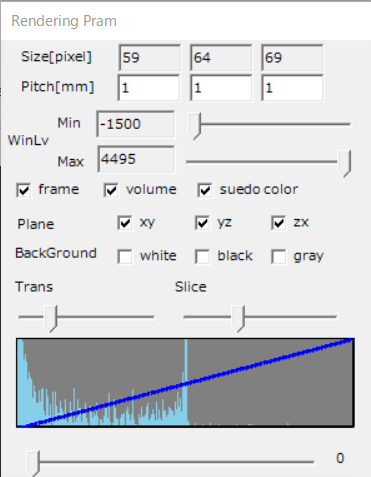
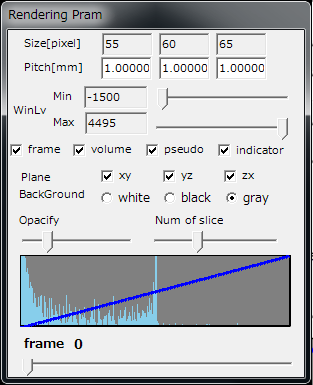
update io and vis
update roi painter 4d

diff --git a/SoftRoiPainter4D/vis/index.html b/SoftRoiPainter4D/vis/index.html
@@ -15,9 +15,6 @@
 
 
 
-
-
-
 <body>
 <div id="MainBody">
 
@@ -26,7 +23,6 @@
 
 <img src="../image/RoiPainter.png" class="ProjImg">
 
-<hr>
 <h2>
 <a href="../index.html">RoiPainter4D</a> &nbsp;&nbsp;
 <a href="../io.html">I/O</a> &nbsp;&nbsp;
@@ -39,8 +35,8 @@
 <hr>
 <h2>Visualization in RoiPainter4D</h2>
 <div class="ProjAbst">
-RoiPainter4Dでは，2つのVisualizationモードが使用可能です．<br>
-起動 : Click "Menu &gt; mode switch &gt; to start visualization mode"<br>
+RoiPainter4Dでは，2つの可視化（Visualization）モードが使用可能です．<br>
+起動方法 : 『Menu &gt; mode switch &gt; to start visualization mode』をクリック<br>
 <br>
 <ol style="line-height:1.5em; padding-left:1em;">
 
@@ -59,9 +55,10 @@ RoiPainter4Dでは，2つのVisualizationモードが使用可能です．<br>
 <hr>
 <h2 id="normal">Visualization Normal</h2>
 <div class="ProjAbst">
-基本のVisualizationモード．入力データをそのまま観察する．
-<br><br>
-<img src="image/vis_normal.png" width="400">
+基本のVisualizationモード．入力データを観察するモード．
+<br>
+<br>
+<img src="image/vis_normal.png" width="700">
 </div>
 
 <div =="" class="StdBlock">
@@ -72,19 +69,20 @@ RoiPainter4Dでは，2つのVisualizationモードが使用可能です．<br>
                 <img src="image/dialog_volinfo.png" width="300">
             </td>
             <td style="padding:1em; line-height: 1.4em;">
-
-<font class="vtmanu">Size</font> 固定<br>
-<font class="vtmanu">Pitch</font> スライスの間隔<br>
-<font class="vtmanu">WinLv</font> <br>  <!-- TODO 書く -->
-<font class="vtmanu">frame</font> 枠の表示<br>
-<font class="vtmanu">volume</font> 3次元モデルの表示<br>
-<font class="vtmanu">suedo</font> 疑似モデルの表示<br>　<!-- TODO 確認 -->
-<font class="vtmanu">Plane xy/yz/zx</font> 各平面のスライスの表示<br>
-<font class="vtmanu">BackGround whilte/black/gray</font> 背景色の変更<br>
-<font class="vtmanu">Trans</font> suedoの透明度設定<br> <!-- TODO 確認 -->
-<font class="vtmanu">Slice</font> <br> <!-- TODO 書く -->
-<font class="vtmanu">transFunc</font> L-dragで操作<br>
-<font class="vtmanu">SliderBar</font> フレーム数を操作<br>
+<font class="vtmanu">Size : </font> 3次元画像の解像度<br>
+<font class="vtmanu">Pitch : </font> ボクセルのサイズ(mm)，修正可能<br>
+<font class="vtmanu">WinLv : </font> 画素値のWindow level (maxとminを指定するとその間が線形補間するようなトーンマッピングが行なわれます)<br>
+<font class="vtmanu">check box - frame : </font> 枠表示の有無を指定<br>
+<font class="vtmanu">check box - volume : </font> volume renderingの有無を指定<br>
+<font class="vtmanu">check box - pseudo : </font> 疑似カラー表示の有無を指定<br>
+<font class="vtmanu">check box - indicator : </font> 画面左下のカメラ方向インジケータ表示の有無を指定<br>
+<font class="vtmanu">Plane xy/yz/zx</font> 平面スライス表示の有無を指定<br>
+<font class="vtmanu">BackGround whilte/black/gray</font> 背景色を指定<br>
+<font class="vtmanu">Opacity : </font> volume renderingの透明度を指定 <br>
+<font class="vtmanu">Num of slice : </font> volume rendering時の平面数を指定（多いほど計算が重いが綺麗） <br>
+<font class="vtmanu">ヒストグラムが表示されたグラフ : </font> このグラフからは伝達関数の指定が可能．横軸が輝度値，縦軸が不透明度に対応しており，L-dragでグラフの形状を修正可能．<br>
+<font class="vtmanu">frame </font> スライダーにより表示するフレーム（時間）を指定．<br>
+<br>
 <br>
 ＊このダイアログはすべてのモード共通です．
             </td>
@@ -97,11 +95,15 @@ RoiPainter4Dでは，2つのVisualizationモードが使用可能です．<br>
 <br>
 
 <hr>
+
 <h2 id="mask">Visualization Mask</h2>
+
 <div class="ProjAbst">
-マスクしたデータを見るためのVisualizationモード．Storeしたデータをまとめて見ることができる．抽出した部位ごとに色を変えるなどして可視化できる．
-<br><br>
-<!-- <img src="./RoiPainter Visualization_files/vis_mask.png" width="400"> -->
+領域分割により作成したマスクデータを観察するためのモード．
+登録したマスクデータを確認したり，各マスクの色・透明度を変えたり，各マスク領域の修正をしたり出来る．
+<br>
+<br>
+<img src="image/vis_mask.png" width="700">
 </div>
 
 <div =="" class="StdBlock">
@@ -113,13 +115,18 @@ RoiPainter4Dでは，2つのVisualizationモードが使用可能です．<br>
             </td>
             <td style="padding:1em; line-height: 1.4em;">
 
-<font class="vtmanu">d1. Mask list</font> 保存したマスクの情報<br>
-<font class="vtmanu">d2. Lock check box</font> ロック設定<br>
-<font class="vtmanu">d3. color button</font> マスクの色変更（Color）<br>
-<font class="vtmanu">d4. alpha slider</font> 透明度設定<br>
-<font class="vtmanu">d5. DELETE button</font> マスクの削除<br>
-<font class="vtmanu">d6. MARGE TO button</font> マスクのマージ<br>
-<font class="vtmanu">d7. Mask operation</font> マスクの操作<br>
+<font class="vtmanu">d1. Mask list</font>: 登録したマスク情報が表示される．マウスクリックによりマスクを選択できる．<br>
+<font class="vtmanu">d2. Checkbox Lock</font>  : 選択したマスクのロック設定．ロックをonにすると領域分割作業中にそのマスク領域は変更されなくなる．offにするとそのマスク領域を侵食するような領域分割が可能となる．デフォルトはON．<br>
+<font class="vtmanu">d3. color</font> : 選択したマスクの色を変更できる．<br>
+<font class="vtmanu">d4. alpha</font> : 選択したマスクの透明度を指定できる．<br>
+<font class="vtmanu">d5. DELETE button</font> : 選択したマスクを削除できる．<br>
+<font class="vtmanu">d6. MARGE TO button</font> : 選択したマスクを他のマスクと統合できる．<br>
+
+<font class="vtmanu">d7. Mask operation </font> : 選択したマスクを加工できる．<br>
+erode : 縮退処理，dilate：膨張処理, fillhole: 中空領域を埋める，exp obj: \.obj形式で書き出し<br>
+this frame は，現在フレーム（時間）のみに適用される．<br>
+all frames は, 全フレームにその処理が出来要される．<br>
+
 
 
             </td>
